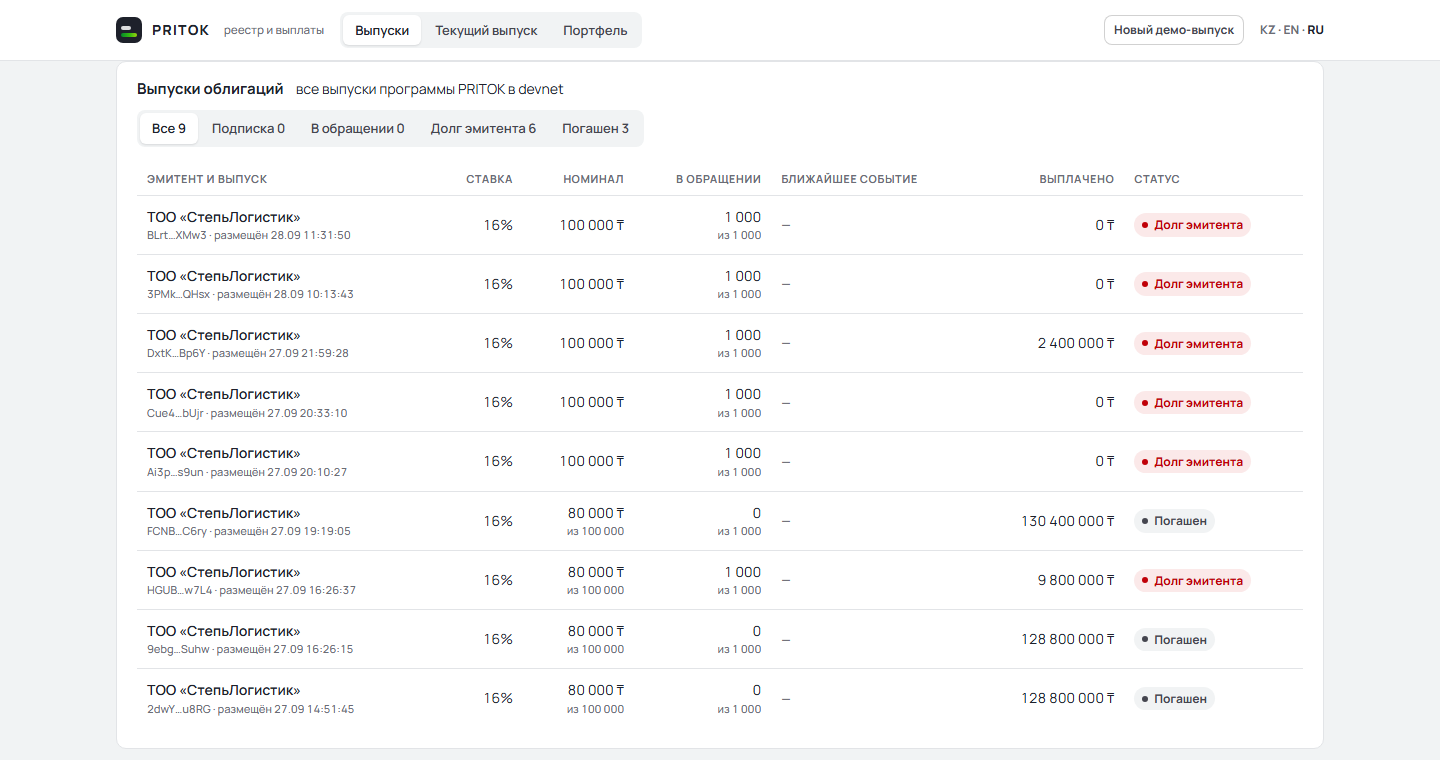
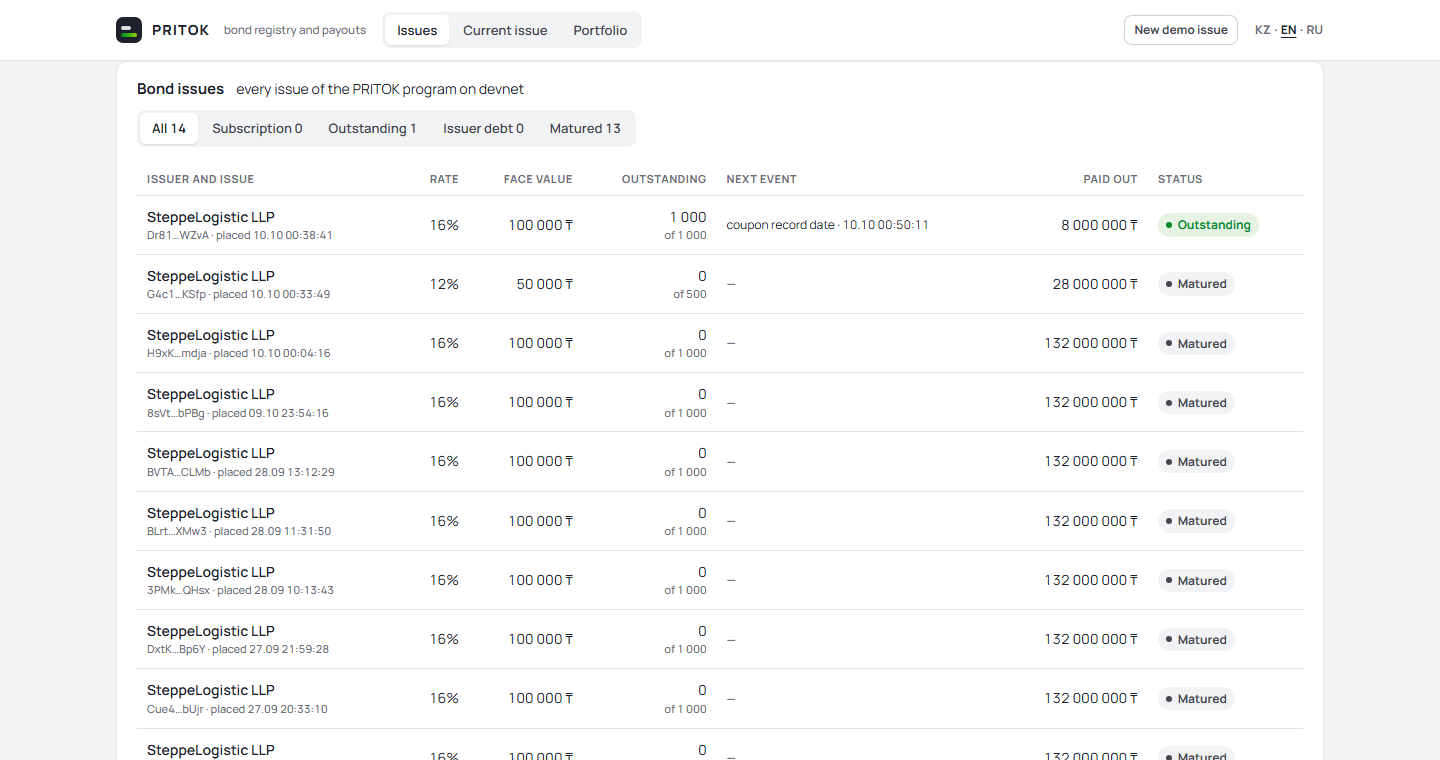
docs: English screenshots with the operator console and the issue form
Registry hero is H9xK, executed end to end by the operator; operator.png shows
a live issue mid-way. Abandoned demo issues on devnet were settled through the
action API (late funding, operator execution), so the list shows no stale debt.
Web: chain time falls back to the clock when devnet has no block time yet; the
operator keeps more SOL for receipt rent; spacing in the console actions.

diff --git a/web/src/lib/demo-bond.ts b/web/src/lib/demo-bond.ts
@@ -58,7 +58,9 @@ export async function latestDemoBond(): Promise<string | null> {
 
 async function chainTime() {
   const { conn } = demoContext();
-  return (await conn.getBlockTime(await conn.getSlot())) ?? Math.floor(Date.now() / 1000);
+  // A just-produced slot often has no block time yet on devnet: fall back to the clock.
+  const t = await conn.getBlockTime(await conn.getSlot()).catch(() => null);
+  return t ?? Math.floor(Date.now() / 1000);
 }
 
 /** Keeps demo wallets able to pay rent and fees, and to buy and pay out bonds. */
@@ -68,7 +70,10 @@ async function topUp(tkzt: PublicKey, issueTiyn: bigint) {
   const tx = new Transaction();
   const balances = await Promise.all(actors.map((a) => conn.getBalance(a.publicKey)));
   actors.forEach((a, i) => {
-    if (balances[i] < MIN_SOL) tx.add(SystemProgram.transfer({ fromPubkey: keys.payer.publicKey, toPubkey: a.publicKey, lamports: TOP_UP_SOL }));
+    // The operator pays rent for every receipt it creates when executing payouts: keep more on it.
+    const op = a === keys.operator;
+    if (balances[i] < (op ? 4 : 1) * MIN_SOL)
+      tx.add(SystemProgram.transfer({ fromPubkey: keys.payer.publicKey, toPubkey: a.publicKey, lamports: (op ? 5 : 1) * TOP_UP_SOL }));
   });
   if (tx.instructions.length) await conn.sendTransaction(tx, [keys.payer]).then((s) => conn.confirmTransaction(s, "confirmed"));
 

diff --git a/web/src/app/globals.css b/web/src/app/globals.css
@@ -317,7 +317,7 @@
 .ca-table td, .ca-table th { white-space: nowrap; }
 .ca-table tr[aria-selected="true"] td { background: var(--bg); }
 .ca-actions { text-align: right; }
-.ca-actions .btn { padding: 6px 12px; }
+.ca-actions .btn { padding: 6px 12px; margin-right: 10px; }
 .ca-report { margin-top: 14px; padding: 14px 16px; border: 1px solid var(--line); border-radius: 12px; }
 .ca-report-h { display: flex; flex-wrap: wrap; align-items: baseline; gap: 10px; margin-bottom: 6px; }
 .ca-report-h .linkbtn { margin-left: auto; }

diff --git a/README.md b/README.md
@@ -13,7 +13,7 @@ Built for the Superteam Kazakhstan × KASE side track [*Corporate Actions on Blo
 | Full lifecycle on devnet | [`FCNB…C6ry`](https://pritok-sol.vercel.app/bond/FCNBFwobxkZw7k7n5U3KsRjzR1VSTtXiAD13FsvQC6ry) — coupons, 20% amortization, a default and its cure, wallet and bank payouts, redemption with burn |
 | Tests | 21 passing: 7 unit, 14 integration on LiteSVM |
 
-![Public registry of a matured bond](docs/img/registry.png)
+![Public view of a bond executed end to end by the operator](docs/img/registry.png)
 
 ## Try it in three minutes
 
@@ -162,10 +162,14 @@ Revocation and pause never cancel a payout that already exists: a revoked or pau
 
 ## Screens
 
+![Platform operator console](docs/img/operator.png)
+
+Operator console: every corporate action of the issue with its stage. Coupon 1 executed for all three holders, coupon 2 funded and ready to execute with one command, later events waiting for the issuer.
+
 | | |
 |---|---|
-| ![Registrar and paying agent](docs/img/registrar.png) | ![Investor portfolio](docs/img/portfolio.png) |
-| Registrar: bank payouts confirmed with reference hashes, admission, pause | Investor portfolio: result, payouts due now, next payout, calendar, holdings |
+| ![New issue form](docs/img/newissue.png) | ![Investor portfolio](docs/img/portfolio.png) |
+| Issuer's form: face value, coupon, term and size, with the coupon per bond and what the issuer raises and pays back | Investor portfolio: result, payouts due now, next payout, calendar, holdings, history |
 
 ![All issues](docs/img/bonds.png)
 
